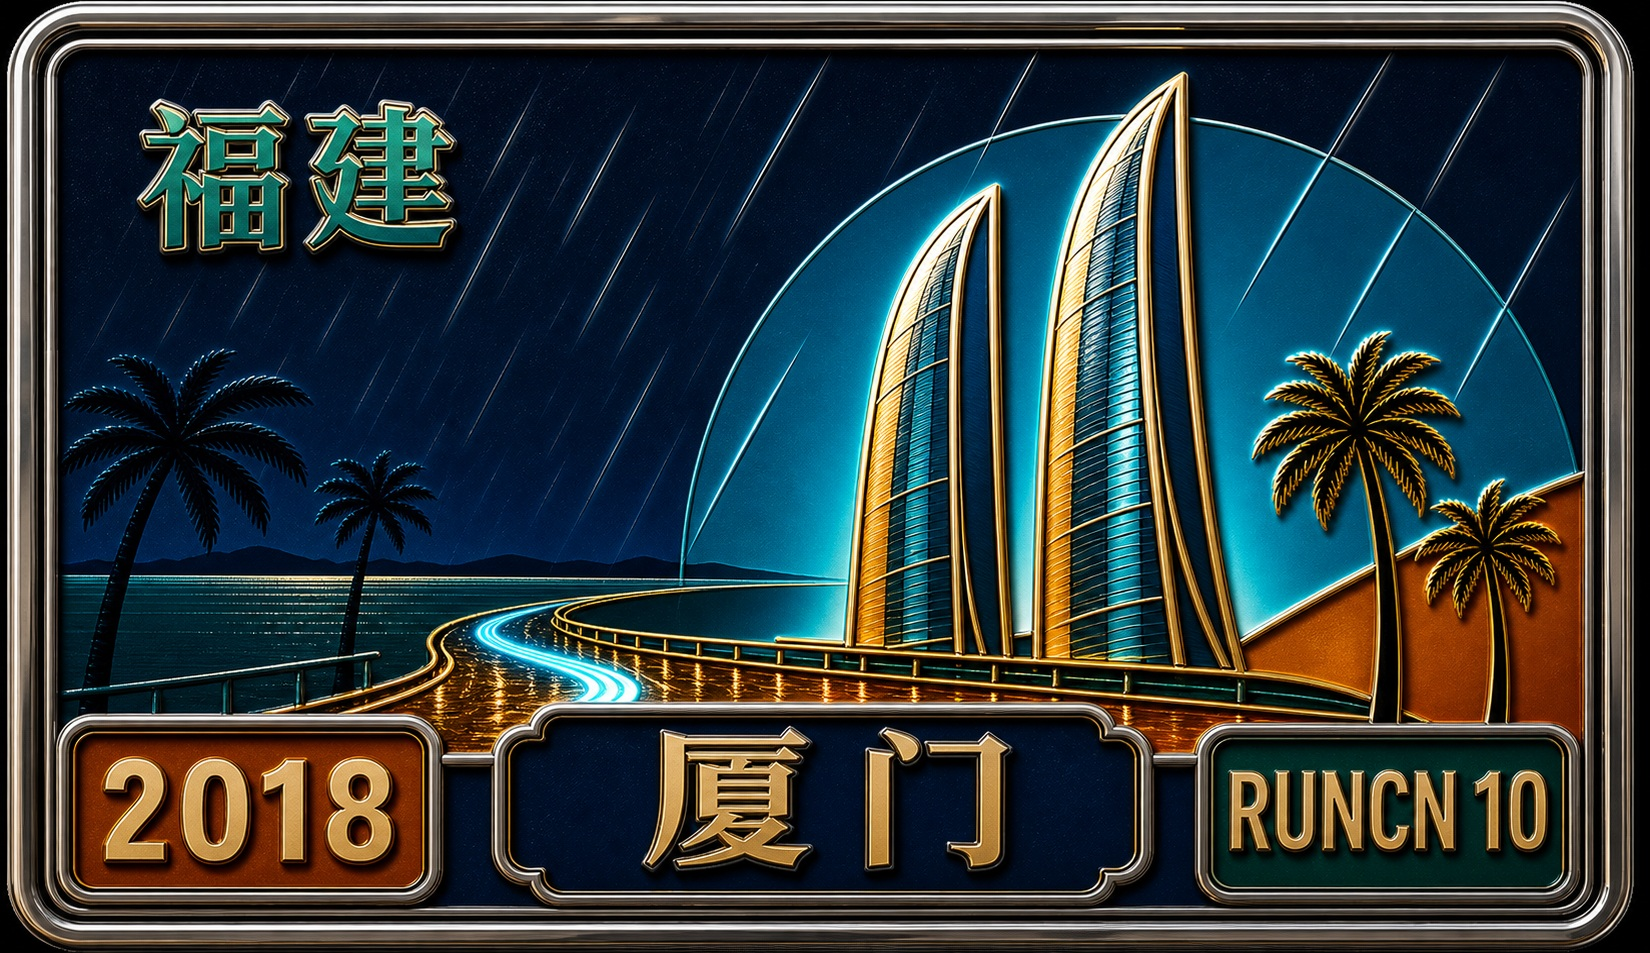
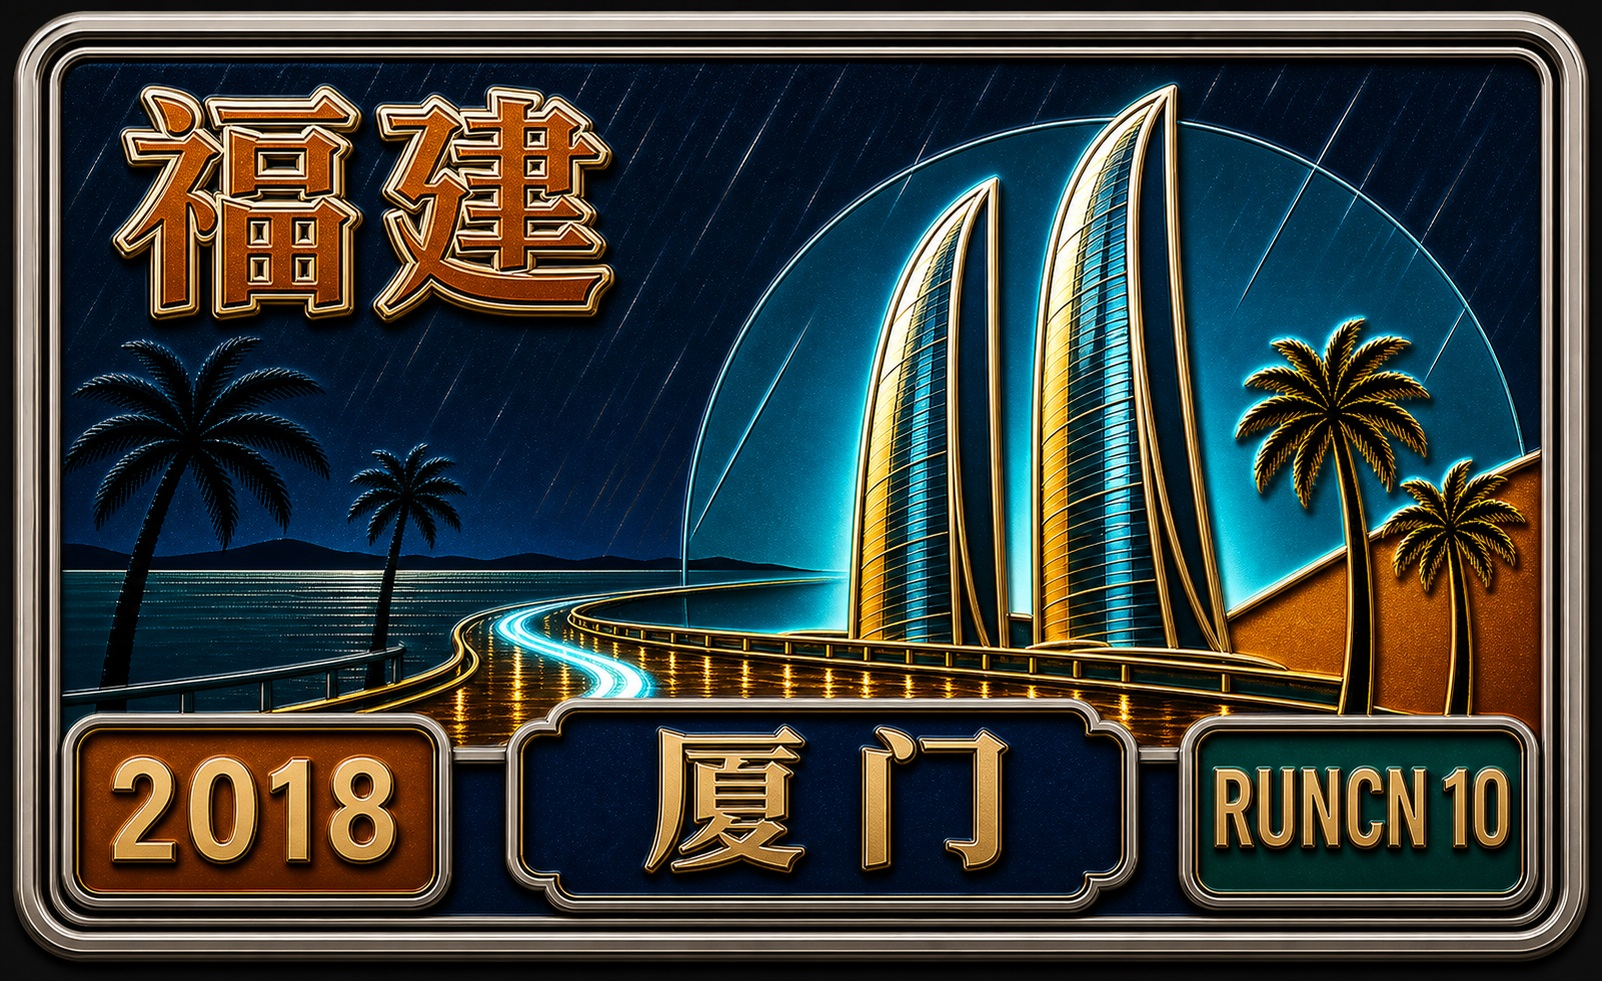
Fix Xiamen cover scale and aspect

diff --git a/run50/stories/chinese/xiamen-marathon.html b/run50/stories/chinese/xiamen-marathon.html
@@ -11,9 +11,9 @@
   <meta property="og:type" content="article">
   <meta property="og:url" content="https://arsenanzz.github.io/ZZ/run50/stories/chinese/xiamen-marathon.html">
   <meta property="og:site_name" content="ArsenanZZ">
-  <meta property="og:image" content="https://zhennanzhang.com/assets/cover-medal-xiamen-marathon.jpg?v=20260628-runcn-plate-v3">
+  <meta property="og:image" content="https://zhennanzhang.com/assets/cover-medal-xiamen-marathon.jpg?v=20260628-runcn-plate-v4">
   <meta name="twitter:card" content="summary_large_image">
-  <meta name="twitter:image" content="https://zhennanzhang.com/assets/cover-medal-xiamen-marathon.jpg?v=20260628-runcn-plate-v3">
+  <meta name="twitter:image" content="https://zhennanzhang.com/assets/cover-medal-xiamen-marathon.jpg?v=20260628-runcn-plate-v4">
   <link rel="stylesheet" href="../../../assets/zz-engagement.css?v=20260617">
   <style>
     :root {
@@ -55,7 +55,7 @@
 
     :root { --accent:#cc0000; --soft:#faf2ee; }
   </style>
-  <meta property="og:image:secure_url" content="https://zhennanzhang.com/assets/cover-medal-xiamen-marathon.jpg?v=20260628-runcn-plate-v3">
+  <meta property="og:image:secure_url" content="https://zhennanzhang.com/assets/cover-medal-xiamen-marathon.jpg?v=20260628-runcn-plate-v4">
   <meta property="og:image:type" content="image/jpeg">
   <meta property="og:image:width" content="1200">
   <meta property="og:image:height" content="750">
@@ -106,7 +106,7 @@
     <h1>RunCN #第10站｜厦门马拉松：以最难忘的出场，享拥每一句赞扬</h1>
     <div class="meta"><span>Arsenan</span><span>2018.01.07</span><span>RunCN #第10站</span></div>
     <p class="dek">2018年的首马，在厦门的雨里开场：曾厝垵、兄弟重逢、赛道掌声和一个惊艳自己的开局。</p>
-    <img class="cover" src="../../../assets/cover-medal-xiamen-marathon.jpg?v=20260628-runcn-plate-v3" alt="RunCN #第10站｜厦门马拉松：以最难忘的出场，享拥每一句赞扬" loading="eager" decoding="async">
+    <img class="cover" src="../../../assets/cover-medal-xiamen-marathon.jpg?v=20260628-runcn-plate-v4" alt="RunCN #第10站｜厦门马拉松：以最难忘的出场，享拥每一句赞扬" loading="eager" decoding="async">
   </header>
   <main class="article-shell"><article class="article-body">
       <p>以最难忘的出场，享拥每一句赞扬</p>

diff --git a/run50/stories/chinese/index.html b/run50/stories/chinese/index.html
@@ -832,7 +832,7 @@
         </a>
 
         <a class="story-card run-cn" href="./xiamen-marathon.html">
-          <img src="../../../assets/cover-medal-xiamen-marathon.jpg?v=20260628-runcn-plate-v3" alt="RunCN #第10站｜厦门马拉松：以最难忘的出场，享拥每一句赞扬" loading="lazy" decoding="async">
+          <img src="../../../assets/cover-medal-xiamen-marathon.jpg?v=20260628-runcn-plate-v4" alt="RunCN #第10站｜厦门马拉松：以最难忘的出场，享拥每一句赞扬" loading="lazy" decoding="async">
           <div class="story-copy">
             <p class="story-meta">福建厦门 · 2018.01.07</p>
             <h2 class="story-title">RunCN #第10站｜厦门马拉松：以最难忘的出场，享拥每一句赞扬</h2>
